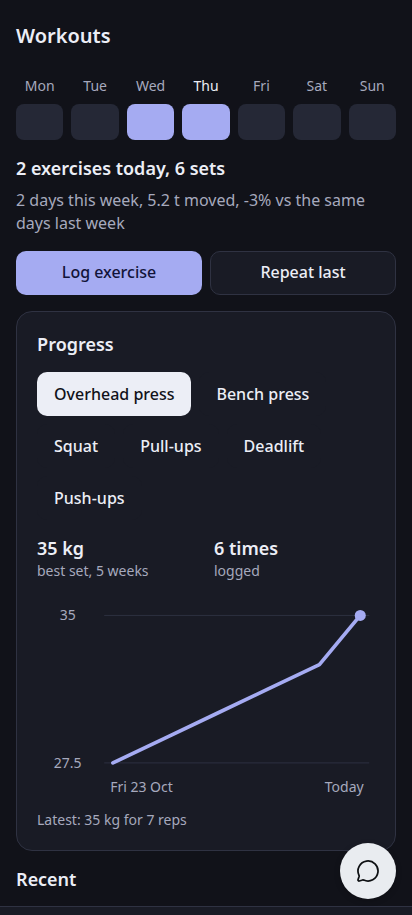
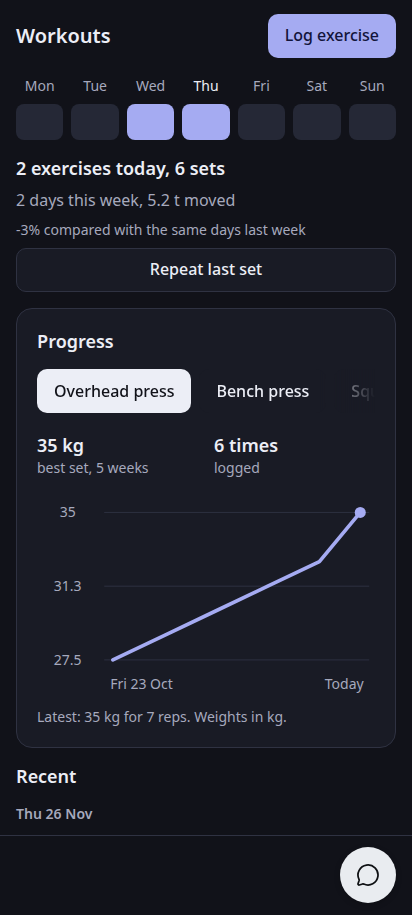
Round 3: strips keep columns, README rules list, chat-open check waits for the animation

diff --git a/runtime/web/dist/molde-demo.html b/runtime/web/dist/molde-demo.html
@@ -3,7 +3,7 @@
 <head>
 <meta charset="utf-8">
 <meta name="viewport" content="width=device-width, initial-scale=1">
-<meta http-equiv="Content-Security-Policy" content="default-src 'none'; script-src 'sha256-/F6YxOS4FlQ0ma53xk8hmR+tgZIh/95wC7zSx+Y0H+Q='; style-src 'sha256-/Rg9CtrxTCVwZ4WU75FwRFD5bwO5RhjDwp4qHgVB3LU='; img-src data:; base-uri 'none'; form-action 'none'">
+<meta http-equiv="Content-Security-Policy" content="default-src 'none'; script-src 'sha256-BpIGYqJ4ZBk1xhj7d1z2t3HH7bBa0+C45yRSes5hfXc='; style-src 'sha256-JrHxlT/5p1JKcAtJR2Q9rffDJeKgBh7pr/fkC4+kIWE='; img-src data:; base-uri 'none'; form-action 'none'">
 <title>Molde live demo</title>
 <link rel="icon" href="data:,">
 <style>/* Molde runtime design system for MoldeScript level-1 nodes.
@@ -367,6 +367,8 @@ textarea.mo-input { min-height: 104px; resize: vertical; line-height: 1.5; }
    system text the row wraps instead of squeezing the column to a sliver */
 .mo-row > .mo-stack.mo-grow { min-width: min(100%, 8rem); }
 .mo-app [hidden] { display: none !important; }
+.mo-row.mo-strip { flex-wrap: nowrap; }
+.mo-row.mo-strip > .mo-stack.mo-grow { min-width: 0; }
 
 /* Demo page chrome. Quiet neutrals; the app in the frame carries the colour. */
 :root {
@@ -4521,6 +4523,9 @@ class Renderer {
       else if (cc) el.setAttribute('data-color', cc); else el.removeAttribute('data-color');
       if (n.t === 'button' && (st.fill === 'accent' || n.primary)) cls.push('mo-primary');
       if (n.t === 'row' && n.children && !n.children.some(c => c.style && c.style.grow) && n.children.filter(c => c.t === 'stack').length >= 2) cls.push('mo-row-even');
+      // a row whose children are all growing stacks (a week strip, a mood picker) is a strip:
+      // its columns stay side by side at any text size
+      if (n.t === 'row' && n.children && n.children.length >= 3 && n.children.every(c => c.t === 'stack' && c.style && c.style.grow)) cls.push('mo-strip');
 
       // events on blocks and texts
       const tappable = n.tap && n.t !== 'button' && n.t !== 'toggle';

diff --git a/runtime/web/dev/index.html b/runtime/web/dev/index.html
@@ -1,0 +1,11 @@
+<!doctype html><html><head><meta charset="utf-8"><meta name="viewport" content="width=device-width,initial-scale=1">
+<link rel="icon" href="data:,"><link rel="stylesheet" href="../molde.css"><style>html,body{margin:0;height:100%}#app{height:100vh}</style></head>
+<body><div id="app"></div><script type="module">
+import { load } from '../../../lang/eval.mjs';
+import { mount } from '../render.mjs';
+const q = new URLSearchParams(location.search);
+const src = await (await fetch(q.get('src') || ('../../../lang/examples/' + (q.get('ex') || '01-water') + '.mo'))).text();
+const app = load(src);
+window.app = app;
+window.R = mount(document.getElementById('app'), app, { mode: q.get('mode') || 'light' });
+</script></body></html>

diff --git a/runtime/web/molde.css b/runtime/web/molde.css
@@ -359,3 +359,5 @@ textarea.mo-input { min-height: 104px; resize: vertical; line-height: 1.5; }
    system text the row wraps instead of squeezing the column to a sliver */
 .mo-row > .mo-stack.mo-grow { min-width: min(100%, 8rem); }
 .mo-app [hidden] { display: none !important; }
+.mo-row.mo-strip { flex-wrap: nowrap; }
+.mo-row.mo-strip > .mo-stack.mo-grow { min-width: 0; }

diff --git a/runtime/web/README.md b/runtime/web/README.md
@@ -11,7 +11,7 @@ The first real renderer for MoldeScript. `lang/eval.mjs` runs a program and hand
 | `icons.mjs` | the 84 MoldeScript icon names (one Lucide icon each; a few names share one) plus runtime chrome, as Lucide line icons (ISC licence) |
 | `demo/` | the demo page: `index.html` (development), `main.mjs`, `demo.css`, `catalog.mjs` (15 programs), `seed.mjs` (deterministic history), `requests.mjs` (scripted chat requests), `programs/` (richer water, habits, budget, workouts and journal programs) |
 | `build.mjs` | writes `dist/molde-demo.html`: one file, all JS, CSS and program sources inlined |
-| `tests/check.mjs` | Playwright machine checks and interaction tests on the built file (192 checks) |
+| `tests/check.mjs` | Playwright machine checks and interaction tests on the built file (208 checks) |
 | `shots/` | every demo program at 412x915, light and dark, app only |
 
 ## Run and build
@@ -28,62 +28,66 @@ Open `dist/molde-demo.html` straight from disk. It makes no network requests, us
 
 ## The demo
 
-The page has the picker and the program source outside the phone frame. Inside the frame is only the app and one round chat button, the product shell Kamal described: tap it, ask for a change or a new app. **The chat is scripted, because the model is not trained yet.** The requests offered come from real edit pairs in `lang/examples/edits` where the program matches, or from small hand-written patches. The change itself is real: the new program is diffed with `lang/diff.mjs`, explained in plain words, swapped in live with the user's data kept, the changed lines are marked in the source, and Undo puts the old program and data back. "Make me a new app" requests switch to another example (described with `lang/describe.mjs`).
+The page has the picker, the program source and a **Reset demo data** button outside the phone frame. Inside the frame is only the app and, in a strip of its own at the bottom, one round chat button: the product shell Kamal described. **The chat is scripted, because the model is not trained yet.** Each request maps to a hand-written program change (`demo/requests.mjs`). The change itself is real: the evaluator applies it (`app.applyEdit`, data kept by storage slot), the reply says in a sentence what changed, the changed lines are marked in the source, and chat Undo (`app.revert`) puts back the previous program while keeping everything entered since. Every change message keeps its own Undo in turn. "Make me a new app" switches to another program; each app keeps its own data for the session, so going back, or asking for that app again, finds it as it was left. The picker never reseeds an app; only Reset demo data does.
 
-Each program opens with a few weeks of lived-in data. `demo/seed.mjs` adds rows through the evaluator's own `addRow` with a fixed seed and a fixed clock (Thursday 26 November 2026, 15:30 UTC), so the screens are the same every time.
+All fifteen programs are written for the demo in `demo/programs/` (plain level 1 plus the standard library; `node lang/mo.mjs check` passes on each). Each opens with a few weeks of lived-in data: `demo/seed.mjs` adds rows through the evaluator's public `addRow` with a fixed seed and clock (Thursday 26 November 2026, 15:30 UTC).
 
 ## Level-1 nodes implemented
 
-`app` (header with the app's icon, date and a settings button when the program has settings), `screen` (tab bar), `stack`, `row` (wraps), `grid`, `box`, `scroll`, `text` (roles `big`, `head`, `faint`; sizes; `bold`; `color`; `align`; tappable text), `button`, `icon`, `image`, `space`, `divider`, `input` (text, long, num, money, date, time, when, dur in minutes, bool, pick and ref as chips, image), `form`, `toggle`, `choice`, `slider`, `draw` with `rect`, `circle`, `arc` (stroke arc or filled wedge), `line`, `path`, `label`, `poly`, and `error`. Every style key in UITREE.md: theme roles, the named colours, `hue:N`, `thick`, `radius`, `opacity`, `width`, `height`, `pad`, `gap`, `span`, `grow`, `card`, `tap`, `swipe`.
+`app` (an app bar with the name and, when the program has settings, a settings button), `screen` (tab bar), `stack`, `row`, `grid`, `box`, `scroll`, `text` (roles, sizes, `bold`, `color`, `align`, tappable text), `button`, `icon`, `image`, `space`, `divider`, `input` (text, long, num, money, date, time, when, dur, bool, pick and ref as chips, image), `form`, `toggle`, `choice`, `slider`, `draw` with `rect`, `circle`, `arc` (stroke arc or filled wedge), `line`, `path`, `label`, `poly`, and `error`; every style key in UITREE.md.
 
-Runtime pieces from SPEC section 12: an editor sheet for rows (`edit it`) and settings (`edit goal`, the header's settings button), remove with an Undo toast, `notify` as a toast, required-field messages, swipe to remove (pointer drag, or Delete on a focused row), timers (the renderer calls `app.tick` once a second while the page is visible), focus and scroll kept across updates (keyed patching by node id).
+Runtime pieces from SPEC section 12: editor sheets for rows and settings, remove with an Undo toast that names the row ("Removed Petrol, Rs 5,740"), `notify` as a toast, swipe to remove (or Delete on a focused row), timers (`app.tick` once a second), focus and scroll kept across updates (keyed patching by node id; a focused or pressed control is never replaced).
 
-Generic layout rules the renderer adds, none app-specific:
+## Generic rules the renderer applies (and why each is generic)
 
-- a `row` with two or more `stack` children and no `grow` shares the width evenly (stat rows);
-- a `draw` with no width fills its column but never grows taller than 120 points for a tall canvas (a bar in a chart) or 280 for a wide one (a chart);
-- a `box` with no width fills its column;
-- `label` text inside a drawing is HTML, so it keeps real sizes, and its colour follows the shape under it (white on an accent circle, ink on a soft one);
-- a `button` with `fill accent` is the primary button; every other button is a quiet neutral one.
+None of these names an app, a table or a field; each reads only node types and styles from the tree.
+
+1. **Points follow the system text size** (16 points = 1rem), so a drawing grows with its labels.
+2. **Numbers in the runtime's locale** (SPEC 12 says the runtime formats numbers): thousands separators from 1,000 (the evaluator starts at 10,000), never inside a year after a month name, a time or a date; a 1 to 3 letter word before a number and a unit after it do not wrap away ("Rs 5,322", "250 ml"); a number never breaks inside.
+3. **A first row of small controls joins the app bar** (at most 4 buttons, short texts, icons, empty boxes): the month switcher, the app's one main action.
+4. **`<` and `>` buttons are drawn as chevrons** named Previous and Next.
+5. **Centring only for a one-block screen**: a screen that is a single board or drawing sits in the middle of the free height; everything else starts at the top. A drawing on its own line is centred across.
+6. **Strips and columns**: a row whose children are all growing stacks is a strip and keeps its columns; a growing column beside other things keeps about 8 characters so rows wrap at large text; grid cells that hold words keep 4.5rem.
+7. **Invisible text is read aloud only**: a `text` with `opacity 0` becomes screen-reader text (used to name heat-map cells and board squares).
+8. **Big grids are one tab stop**: a grid with more than 12 tappable cells has one tab stop and arrow keys (roving tabindex).
+9. **`stroke` on a block is an outline ring** (inset, so the layout does not move).
+10. **Labels in drawings** are HTML with real sizes; their colour follows the shape under them.
+11. **Primary button**: a button with `fill accent` is primary; others are quiet.
+12. **Even stat rows**: a row of two or more stacks with no `grow` shares the width.
+13. **Drawing height caps**: a canvas with no width fills its column but stays under 120 points for a tall canvas, 280 for a wide one.
+14. **Scroll cue**: a sideways row fades on the side that has more.
+15. **Reserved inset**: a host can reserve a strip at the bottom (`mount(..., { insetBottom })`) for its own controls; the app never draws under it.
 
 ## Design system
 
-Direction: personal tools on a cheap phone; calm, exact, a little warm; a pocket notebook and a pen. Surfaces stay neutral; colour goes into what the program draws. Spacing on a 4 px scale (`gap`/`pad` 0 to 6 = 0, 8, 12, 16, 24, 32, 48 px), one type scale (14, 16, 18, 22, 32, 44 px; weights 400, 500, 600), nested radii (cards 16, controls 10), a visible focus ring, touch targets of at least 44 px, no text under 14 px, text contrast of at least 4.5:1 in all five themes in light and dark (checked by the tests). No gradients, glows, emoji or brown. The `ink` theme of the v1 kit was lime on black; here it is indigo on near-white, and a calm dark navy in dark mode.
+Direction: personal tools on a cheap phone; calm, exact, a little warm. Surfaces stay neutral; colour goes into what the program draws. Spacing on a 4 px scale (`gap`/`pad` 0 to 6 = 0, 8, 12, 16, 24, 32, 48 px), one type scale in rem (14, 16, 18, 22, 32, 44 px at 100%; weights 400 to 600), nested radii (cards 16, controls 10), a visible focus ring, targets of at least 44 px, no text under 14 px, text contrast of at least 4.5:1 in all five themes, light and dark. No gradients, glows, emoji or brown.
 
-## Checks (tests/check.mjs)
+## Checks (tests/check.mjs, 208)
 
-- every demo program at 360x640, 412x915, 600x960, 800x1280 and 1440x900, light and dark: no console output and no network request, no horizontal overflow, every visible interactive element at least 44x44, no text under 14 px, computed text contrast at least 4.5:1 (also for labels over drawn shapes); at 412x915 the same with the chat sheet open;
-- interactions: water quick add raises the total and the glass; tasbeeh tap counts and the arc grows; tic-tac-toe detects a win; a removed row comes back from the Undo toast; a swipe removes a row; the focus timer counts down in real time; the row editor saves a change; a form adds a row; tabs switch after a chat edit adds a screen; a chat request swaps the program, keeps data and undoes; a new-app request switches programs; every scripted request yields a program that checks; the file runs in a sandboxed iframe with its CSP.
+- every program at 360x640, 412x915, 600x960, 800x1280 and 1440x900, light and dark (and with the chat sheet open): no console output or network request, no overflow, targets of at least 44 px, text of at least 14 px, contrast of at least 4.5:1;
+- 200% system text at 360 px (no overflow, no letter-per-line, numbers whole, drawing labels inside their drawings) and 300 px wide;
+- the chat button is never over any control at the top, middle and end of every app (`elementFromPoint`);
+- sheets: Done closes on the first real mouse click after typing, also at its right edge; Tab then Enter works;
+- data: chat Undo keeps data entered after a change; a hidden field comes back on redo; undoing a new-app request keeps that app's data; the picker never reseeds; Reset demo data does; a second Undo is reachable;
+- the app bar (chevrons, main actions), act-first order, heat grid (one tab stop, arrows, named cells, ring selection, legend), one-row exercise picker, number format, chart ticks and month names, warnings in words, named board cells, toast phrases, empty states without noise, plurals, primary actions, centring, dates and times as text;
+- interactions: quick add, tasbeeh, tic-tac-toe win, undo toast, swipe, timer, row editor, form, tabs, chat changes, every scripted request checks, sandboxed iframe with CSP.
 
 ## What still looks weak (honest list)
 
-- **Axis labels cost a lot of program text.** Every label, gridline and latest-point dot is placed by hand with `label`, `line` and `circle`, repeating the chart's formulas; a tiny model will rarely write that.
-- **Number formatting:** no "80k" (text parts always join with a space), no thousands separator under 10,000 ("Rs 5322"), no currency sign from the runtime, no short month name for month bars.
-- **Plurals and empty states are written by hand** in each program; std `list` and `log` still say "Nothing here yet."
-- Reading, to-do, attendance and medicine (the unchanged language examples) keep the plainer round 1 look.
-- The heat grid needs 44 px cells to be tappable, so it shows 6 weeks, not 10, and sits outside a card.
-- Dates are UTC in the evaluator.
-- The editor and settings sheets read declarations from the `App` object (gap 1 below).
-
-## Round 2 changes (after the round 1 verdict, issue #37)
-
-- **Chat Undo never loses data.** It puts back the previous *program* and keeps every row and setting the user has now. Values in a field the older program lacks stay stored (hidden) and come back when the field returns; the reply says so. Edits are diffed against every earlier version of the app; only a data action's own Undo toast reverts data.
-- **Charts are labelled** in the demo programs with plain `label` nodes: budget (y values, days 1/15/30, a legend, the current point), workouts (best and lowest kg, first date and Today, the latest point), journal (Great/Okay/Rough, first date and Today), water, savings and focus (value over each bar). The habits heat grid has weekday headers and shows the value of a tapped day.
-- **Generic renderer rules:** a short screen sits in the middle of the free height; a `draw` on its own line is centred; a `scroll` shows a fade on the side that has more; grid cells that hold words keep at least 4.5rem (large system text drops a column instead of breaking names); `align` on a row is the cross axis only.
-- **Shell:** the chat button hides under sheets and scrims, while a field is being typed in, and while the user scrolls down (it returns on the way up); the Undo toast has its own place beside it, on one line.
-- **One primary action per app**, the only accent button: Log exercise, Add expense, Save entry, Add habit, + 250 ml, + 1,000, Start, New game.
-- **Replies are sentences** written per request; "Everything you saved is still here." appears only when the change touched stored data; new apps are described in plain words; the button says Undo.
-- **Empty states and plurals** in every demo program; the quiz shows the right answer after a wrong one and can start again (`remove all`); budget cannot page into future months.
-- **Font sizes in rem**, tested at 200% root size at 360 px and at 300 px wide.
-- **Date and time inputs** read "Thu 26 Nov 2026" and "08:30"; the browser's picker opens on tap.
-- **Less template:** the runtime bar is just the app's name (and settings); each program leads with its own element.
+- **Charts cost a lot of program text**: every tick, gridline and point is placed by hand with `label`, `line` and `circle`; the language's chart frame (`plot`, `tick`) is not finished yet.
+- **Short month names** are a 12-level `if` in the savings program; plurals and empty states are written by hand everywhere.
+- **The number rule is a heuristic**: a 4-digit year that does not follow a month name would get a comma ("in 2026" would show as "in 2,026"); no demo program shows one. A typed number in the tree would remove the guess.
+- **Heat-map cells and board squares are named with invisible text** (rule 7); a real accessible-name modifier would be cleaner.
+- The heat grid needs 44 px cells to be tappable, so it shows 6 weeks, not 10.
+- Dates are UTC in the evaluator; the demo does not pass `tz: 'local'` so screenshots stay fixed.
+- The editor and settings sheets still read declarations from the `App` object (gap 1 below).
 
 ## Contract gaps and language needs
 
-1. `edit` logs a target, but there is no public way to list a row's or setting's fields and change them; the renderer's `bridge` reads `app.env`, `app.prog`, `app.data` and calls `app.pushUndo` directly.
-2. `app.restore(snapshot)` replaces data wholesale; `demo/main.mjs` `loadWithData` adds new tables and settings itself.
-3. `toggle` and `choice` nodes carry no label, so a tick box's accessible name is a guess.
-4. A button's action kind is not in the tree; programs mark the primary button with `fill accent`.
-5. Every `dispatch` (each keystroke too) is one undo step; the renderer drops the Undo toast as soon as anything else is dispatched.
-6. Seeding history needs `app.addRow(table, values, atMs)`, which is not documented.
-7. A changed setting default does nothing for a user who already has the setting stored, so "count to 100" cannot be done as an edit.
+1. A public editor API: list a row's or setting's fields with their values and types, and set one (with one undo step). The `bridge` in render.mjs reads `app.env`, `app.prog`, `app.data` through `tk/fk/sk` and calls `app.pushUndo`.
+2. Typed text parts in the tree (number, money, date), so the runtime formats numbers and currency without guessing (rule 2).
+3. An accessible name for any node (`say "..."`), replacing rule 7.
+4. Labels on `toggle` and `choice`; the action kind on buttons (save, add, go), so primary actions need no `fill accent`.
+5. The chart frame (`plot`, `tick`), `plural`, a short month name, `each ... empty`, aspect ratio for `box`, centre and fill on blocks.
+6. One undo step per field edit rather than per keystroke.
+7. A way for an edit to set a stored setting's value (a new default does nothing once a value is stored).
